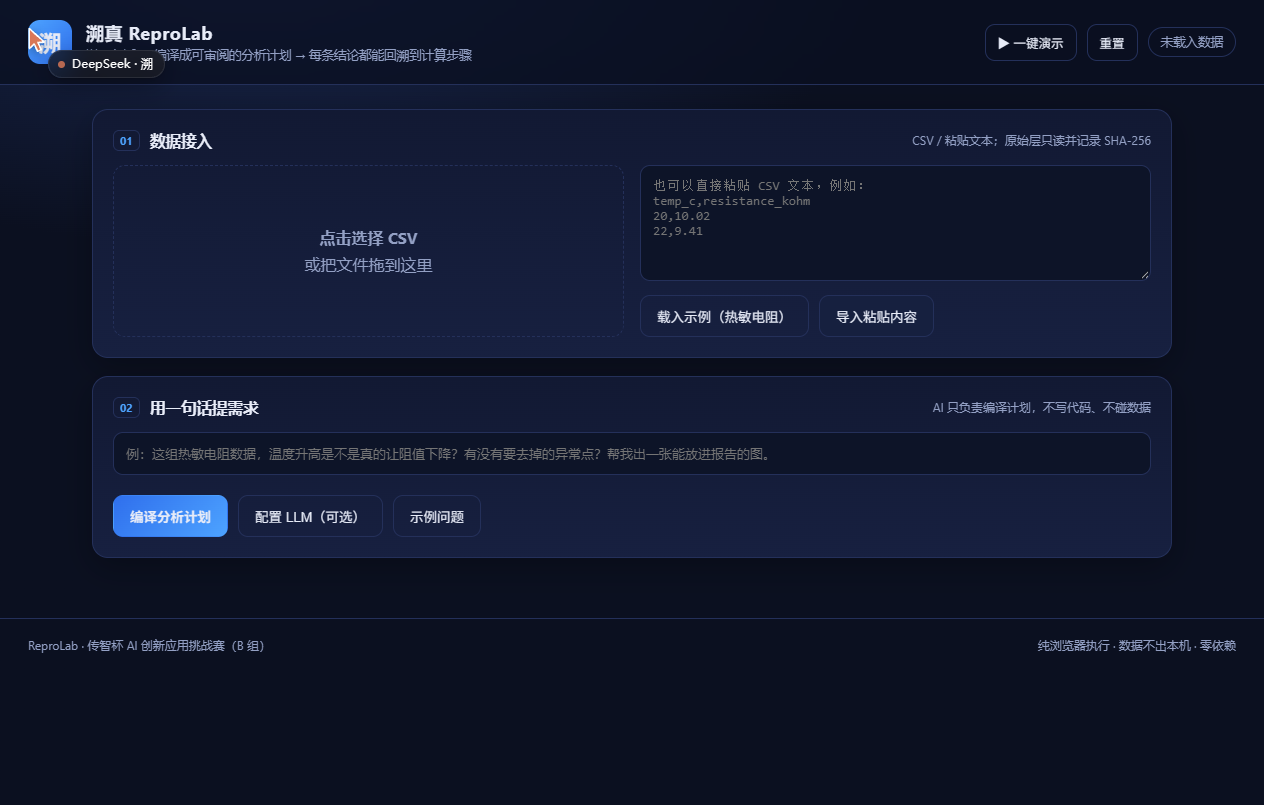
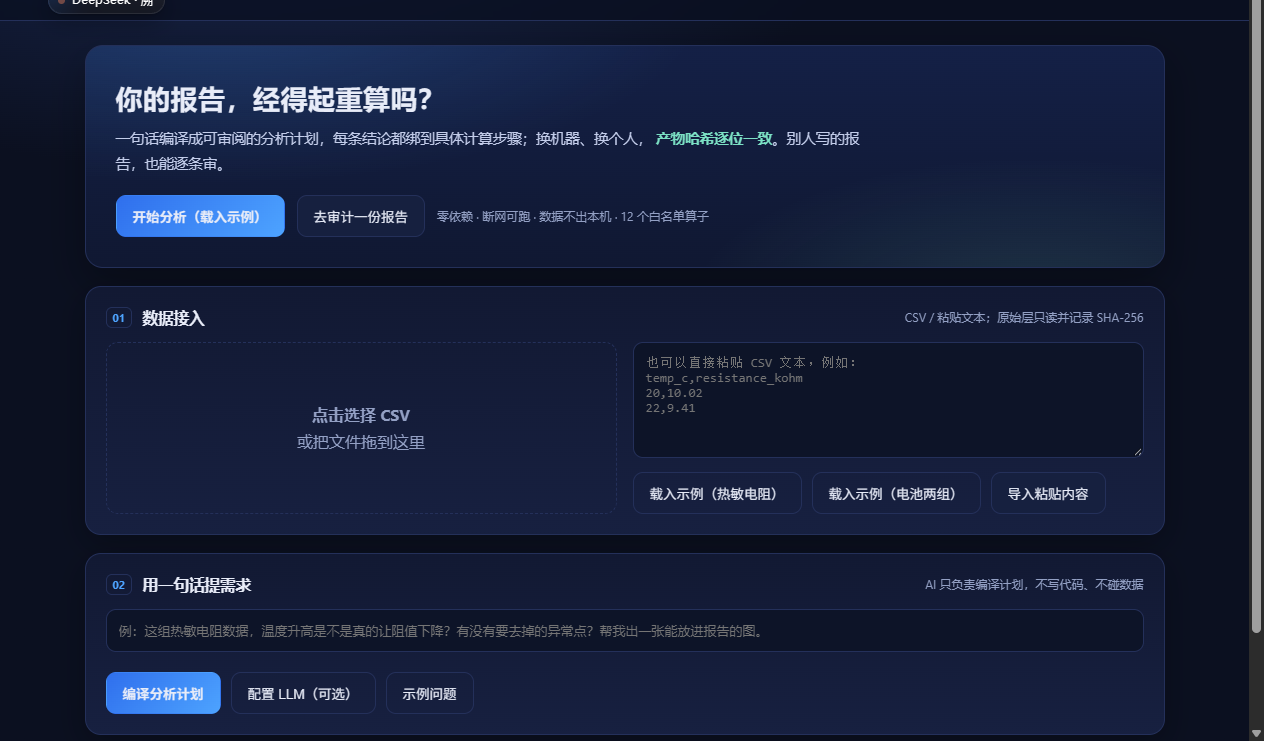
[iter 12] 首屏主张 + 命令行 cli.mjs（audit/check，退出码可进 CI）

diff --git a/src/ui/app.js b/src/ui/app.js
@@ -483,6 +483,7 @@ const STEP_IDS = ['step1', 'step2', 'step3', 'step4', 'step5'];
 function setMode(mode) {
   document.body.dataset.mode = mode;
   document.querySelectorAll('#modeSwitch .mode').forEach((b) => b.classList.toggle('active', b.dataset.mode === mode));
+  show('hero', mode !== 'audit');
   if (mode === 'audit') {
     STEP_IDS.forEach((id) => show(id, false));
     show('auditPanel', true);
@@ -497,6 +498,21 @@ function setMode(mode) {
 $('modeSwitch').addEventListener('click', (e) => {
   const btn = e.target.closest('.mode');
   if (btn) setMode(btn.dataset.mode);
+});
+
+$('heroAnalyze').addEventListener('click', async () => {
+  const res = await fetch('./sample-data/thermal.csv');
+  await loadCsv(await res.text(), '示例 thermal.csv');
+  $('question').value = EXAMPLE_QUESTION;
+  $('step2').scrollIntoView({ behavior: 'smooth', block: 'start' });
+  toast('已载入示例，点「编译分析计划」开始', 'ok');
+});
+
+$('heroAudit').addEventListener('click', async () => {
+  setMode('audit');
+  const res = await fetch('./sample-data/audit-case.json');
+  await loadAuditCase(await res.json(), '示例');
+  $('auditRun').scrollIntoView({ behavior: 'smooth', block: 'center' });
 });
 
 // ---------- 审计 ----------

diff --git a/src/styles.css b/src/styles.css
@@ -153,6 +153,21 @@ textarea, .input {
 /* ---- 图表说明 ---- */
 .chart-note { margin-top: 8px; font-size: 11.5px; color: var(--muted); text-align: center; }
 
+/* ---- 首屏主张 ---- */
+.hero {
+  padding: 34px 30px 30px;
+  border: 1px solid var(--line); border-radius: 18px;
+  background:
+    radial-gradient(700px 260px at 12% -20%, rgba(77, 163, 255, .22), transparent 70%),
+    radial-gradient(500px 220px at 88% 120%, rgba(123, 224, 196, .14), transparent 70%),
+    linear-gradient(180deg, #142046, #101832);
+  box-shadow: 0 16px 40px rgba(0, 0, 0, .3);
+}
+.hero-title { margin: 0 0 10px; font-size: 27px; letter-spacing: .5px; }
+.hero-sub { margin: 0 0 18px; max-width: 760px; color: #c3cdea; font-size: 14.5px; line-height: 1.75; }
+.hero-sub b { color: var(--accent-2); font-weight: 600; }
+.hero-actions { display: flex; align-items: center; gap: 12px; flex-wrap: wrap; }
+
 /* ---- 模式切换 ---- */
 .modes { display: inline-flex; border: 1px solid var(--line); border-radius: 10px; overflow: hidden; }
 .mode {

diff --git a/index.html b/index.html
@@ -27,6 +27,19 @@
 </header>
 
 <main>
+  <section class="hero" id="hero">
+    <h2 class="hero-title">你的报告，经得起重算吗？</h2>
+    <p class="hero-sub">
+      一句话编译成可审阅的分析计划，每条结论都绑到具体计算步骤；换机器、换个人，
+      <b>产物哈希逐位一致</b>。别人写的报告，也能逐条审。
+    </p>
+    <div class="hero-actions">
+      <button class="btn primary" id="heroAnalyze">开始分析（载入示例）</button>
+      <button class="btn" id="heroAudit">去审计一份报告</button>
+      <span class="hint">零依赖 · 断网可跑 · 数据不出本机 · 12 个白名单算子</span>
+    </div>
+  </section>
+
   <section class="card audit-card hidden" id="auditPanel">
     <div class="card-head">
       <h2><span class="num">A</span>结论审计</h2>

diff --git a/README.md b/README.md
@@ -36,6 +36,10 @@ node serve.mjs          # 打开后点右上角「审计」
 
 判定规则：数值允许 0.1% 相对误差（报告通常四舍五入到 4 位）；差异超过则是**不符**；步骤或字段找不到是**无法复现**；声明的产物哈希对不上，整体不通过。
 
+## 命令行也能验
+
+
+
 ## 快速开始（10 分钟复现）
 
 ```bash
@@ -101,6 +105,7 @@ node serve.mjs
 reprolab/
 ├─ index.html               # 单页工作台
 ├─ serve.mjs                # 零依赖静态服务器
+├─ cli.mjs                  # 命令行：audit / check，可进 CI
 ├─ src/
 │  ├─ styles.css
 │  ├─ planner.js            # 自然语言 → 计划 DSL；结论卡生成与校验
